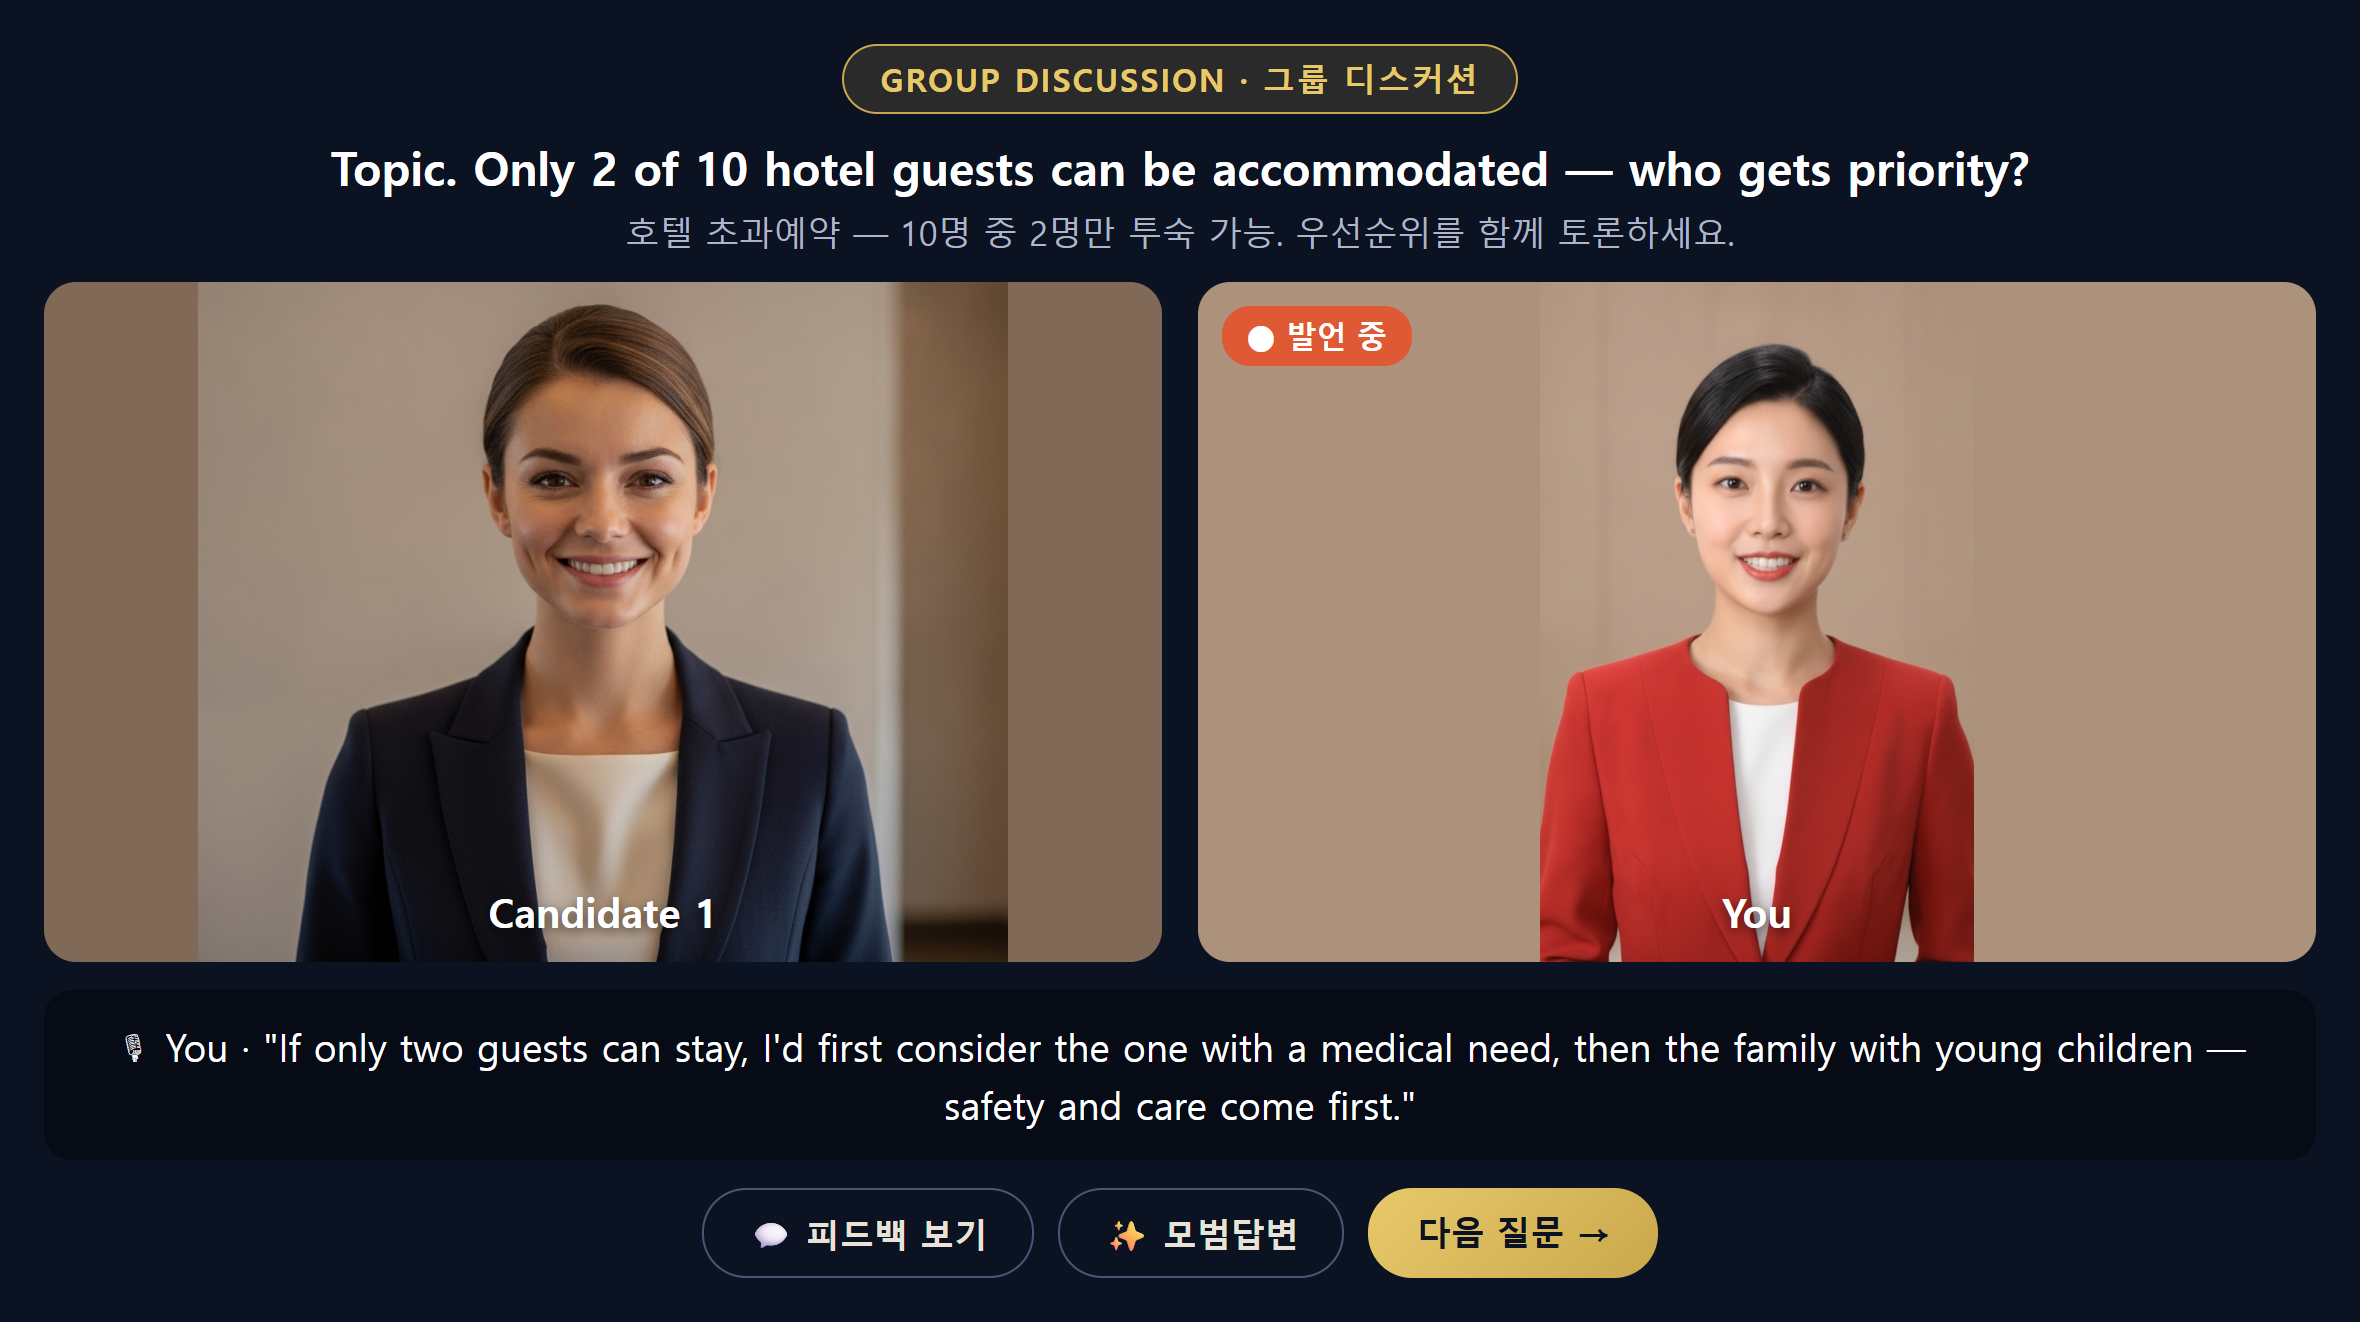
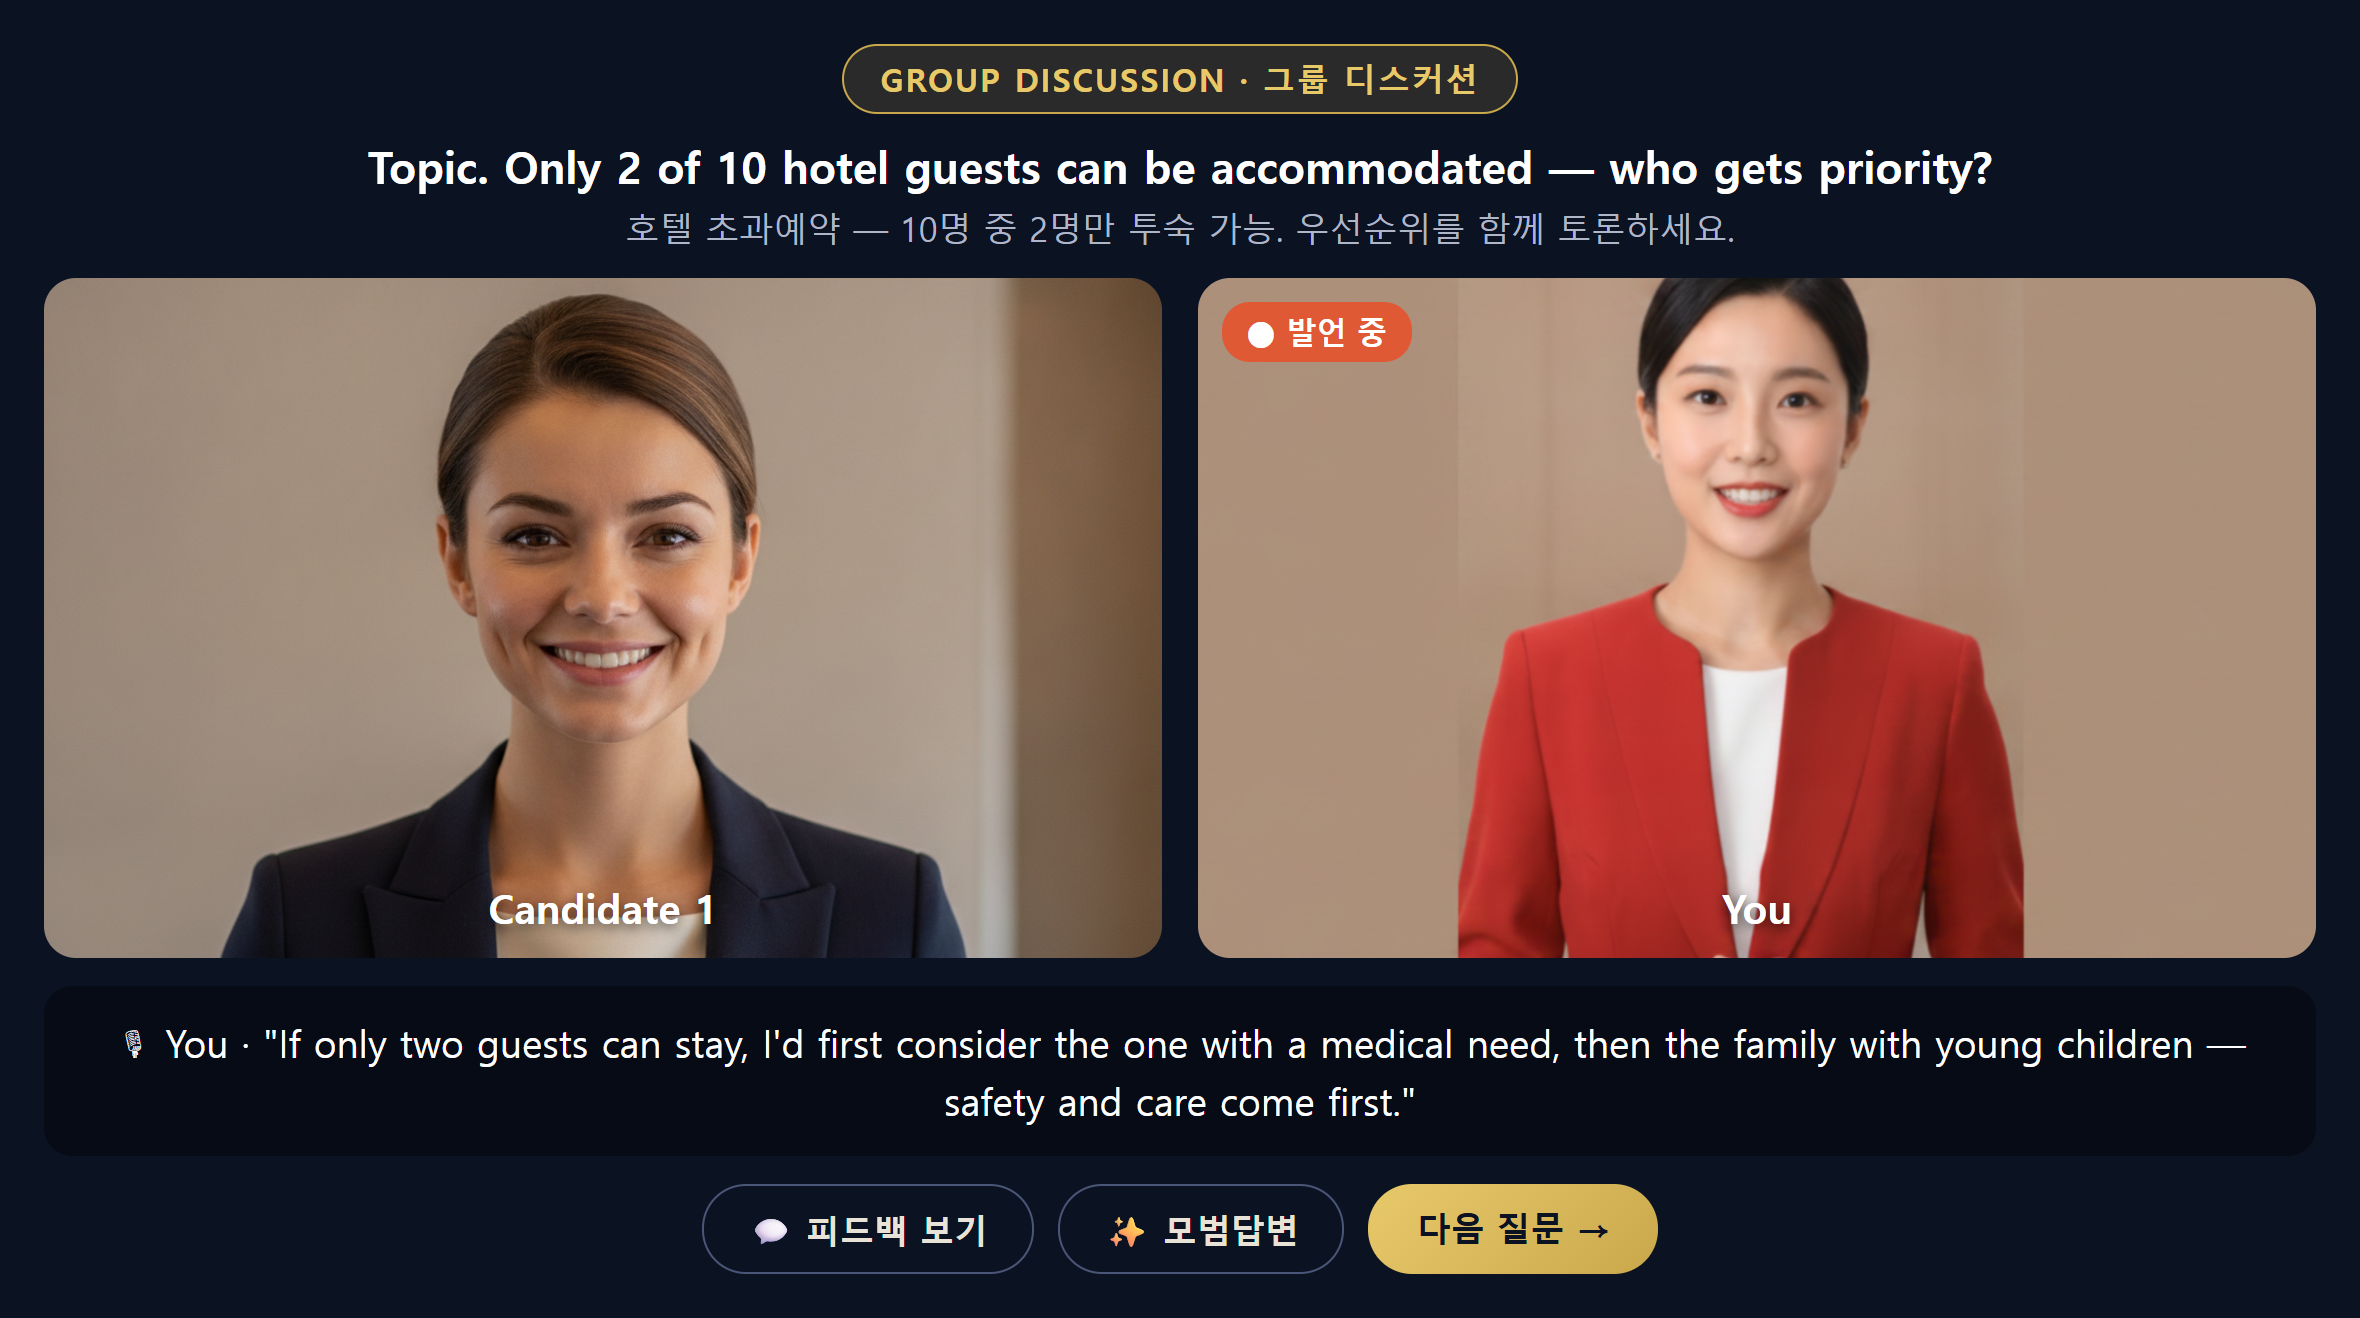
파이널·디스커션 You: 앞으로 손 모은 자세 가로 이미지(you-wide)로 재생성·크롭 — 얼굴 면접관과 크기 맞춤, 배경 꽉 참(블러/빨강/팔벌림 없음)

diff --git a/blog-drafts.html b/blog-drafts.html
@@ -519,7 +519,7 @@ hr{border:none;border-top:1px dashed var(--line);margin:30px 0;}
   <figure><img src="images/shot-disc1.png" alt="1차 디스커션 - 발표 주제와 핵심 포인트"><figcaption>실제 화면 — 1차 디스커션: 발표 주제와 핵심 포인트</figcaption></figure>
   <figure><img src="images/shot-disc2.png" alt="2차 디스커션 - 실전 우선순위 토론 시나리오"><figcaption>실제 화면 — 2차 디스커션: 실전 우선순위 토론 시나리오</figcaption></figure>
   <figure><img src="images/shot-debate.png" alt="싱가포르항공 디베이트 - 주제와 입장 선택"><figcaption>실제 화면 — 싱가포르식 1:1 디베이트: 주제·입장 선택</figcaption></figure>
-  <figure><img src="images/shot-discussion-live.png?v=5" alt="그룹 디스커션 실전 - 두 지망생이 주제로 토론하는 실시간 화면"><figcaption>실제 화면 — 두 지망생이 실시간으로 토론하고, 발언이 자막으로 기록돼요</figcaption></figure>
+  <figure><img src="images/shot-discussion-live.png?v=6" alt="그룹 디스커션 실전 - 두 지망생이 주제로 토론하는 실시간 화면"><figcaption>실제 화면 — 두 지망생이 실시간으로 토론하고, 발언이 자막으로 기록돼요</figcaption></figure>
 
   <h2>⑧ 워드슈팅 — 멈추지 않는 순발력</h2>
   <p>랜덤으로 주어지는 단어나 문장을 받아 60초 안에 즉석에서 영어로 발표해요. 원더풀크루에서는 Qatar처럼 순발력을 보는 면접에 대비하는 즉흥 스피치를, 타이머가 도는 동안 멈추지 않고 말하는 훈련으로 키웁니다.</p>
@@ -534,7 +534,7 @@ hr{border:none;border-top:1px dashed var(--line);margin:30px 0;}
   <p>실전 직전 최종 점검과 종합 실력 분석 리포트, 그리고 1:1 코치 피드백까지. 원더풀크루에서는 그동안의 연습 데이터를 모아 미소·답변·태도를 항목별로 확인하고, 마지막은 코치 피드백으로 실전 준비를 완성합니다.</p>
   <figure><img src="images/Gemini_Generated_Image_9vrkb49vrkb49vrk.png" alt="파이널 종합 분석"></figure>
   <figure><img src="images/shot-final.png" alt="파이널 - 면접관·항공사·영어 엑센트 선택 화면"><figcaption>실제 화면 — 항공사·면접관·엑센트를 골라 실전처럼 마무리해요</figcaption></figure>
-  <figure><img src="images/shot-final-live.png?v=12" alt="파이널 실전 - 남성 면접관과 베스트 서비스 질문·실시간 자막"><figcaption>실제 화면 — 실전처럼 질문을 받고, 답변이 자막으로 실시간 기록돼요</figcaption></figure>
+  <figure><img src="images/shot-final-live.png?v=13" alt="파이널 실전 - 남성 면접관과 베스트 서비스 질문·실시간 자막"><figcaption>실제 화면 — 실전처럼 질문을 받고, 답변이 자막으로 실시간 기록돼요</figcaption></figure>
 
   <hr>
   <p>사진 한 장부터 마지막 1:1 면접까지 — 흩어져 있던 준비를 한 곳에서, 매일 조금씩. 원더풀크루에서는 그 전 과정을 실제 화면으로 직접 연습하며 합격까지 함께 걸어드릴게요.</p>

diff --git a/landing.html b/landing.html
@@ -277,7 +277,7 @@ footer b{color:#fff;}
     <div class="vis-shot" style="margin-top:10px;"><img src="images/shot-disc1.png" alt="1차 디스커션 - 발표 주제와 핵심 포인트 화면"></div>
     <div class="vis-shot" style="margin-top:10px;"><img src="images/shot-disc2.png" alt="2차 디스커션 - 실전 우선순위 토론 시나리오 화면"></div>
     <div class="vis-shot" style="margin-top:10px;"><img src="images/shot-debate.png" alt="싱가포르항공 디베이트 - 주제·입장 선택 화면"></div>
-    <div class="vis-shot" style="margin-top:10px;"><img src="images/shot-discussion-live.png?v=5" alt="그룹 디스커션 실전 - 두 지망생이 주제로 토론하는 실시간 화면"></div>
+    <div class="vis-shot" style="margin-top:10px;"><img src="images/shot-discussion-live.png?v=6" alt="그룹 디스커션 실전 - 두 지망생이 주제로 토론하는 실시간 화면"></div>
     <p>실전 그룹 토론을 항공사별·배경별 시나리오로 연습해요. 발언 순서·논리 전개·매너까지, 그룹 토론에서 평가받는 핵심을 짚어드립니다.</p><div class="card-note"><b>항공사별 디스커션</b>1. Emirates — 1차는 주어진 주제를 정리해 발표, 2차는 실전 기출 상황에서 우선순위를 토론합니다.<br>2. Singapore Airlines — 찬반이 정해지면 AI가 반대 입장에서 맞받아치는 디베이트.<br>3. Qatar — 랜덤 키워드를 받고 즉석에서 1분 영어 발표(워드슈팅).<br>4. 기타 항공사(Etihad·Cathay 등) — 신규 노선·친환경·위기 PR·팀 갈등 등 다양한 기출을 종합 토론.</div>
   </div>
 
@@ -307,7 +307,7 @@ footer b{color:#fff;}
     <h3>파이널 · 종합 분석</h3>
     <div class="vis-shot"><img src="images/Gemini_Generated_Image_9vrkb49vrkb49vrk.png" alt="파이널 종합 분석"></div>
     <div class="vis-shot" style="margin-top:10px;"><img src="images/shot-final.png" alt="파이널 - 면접관·항공사·영어 악센트 선택 화면"></div>
-    <div class="vis-shot" style="margin-top:10px;"><img src="images/shot-final-live.png?v=12" alt="파이널 실전 - 남성 면접관과 베스트 서비스 질문·실시간 자막"></div>
+    <div class="vis-shot" style="margin-top:10px;"><img src="images/shot-final-live.png?v=13" alt="파이널 실전 - 남성 면접관과 베스트 서비스 질문·실시간 자막"></div>
     <p>실전 직전 최종 점검과 종합 실력 분석 리포트, 그리고 1:1 코치 피드백까지. 그동안의 연습을 합격으로 완성하는 마지막 단계예요.</p><div class="card-note"><b>이 기능에서는</b>1. 실전 직전 종합 점검과 그동안의 연습 데이터를 모은 실력 분석 리포트를 받습니다.<br>2. 미소·답변·태도 등 항목별로 부족한 부분을 데이터로 확인해요.<br>3. 마지막은 1:1 코치 피드백으로 실전 준비를 완성합니다.</div>
   </div>
 
